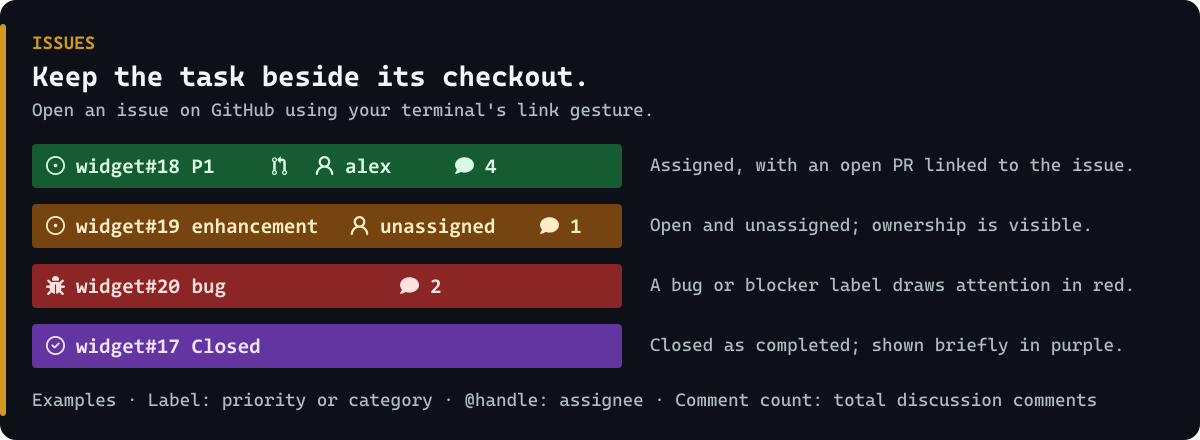
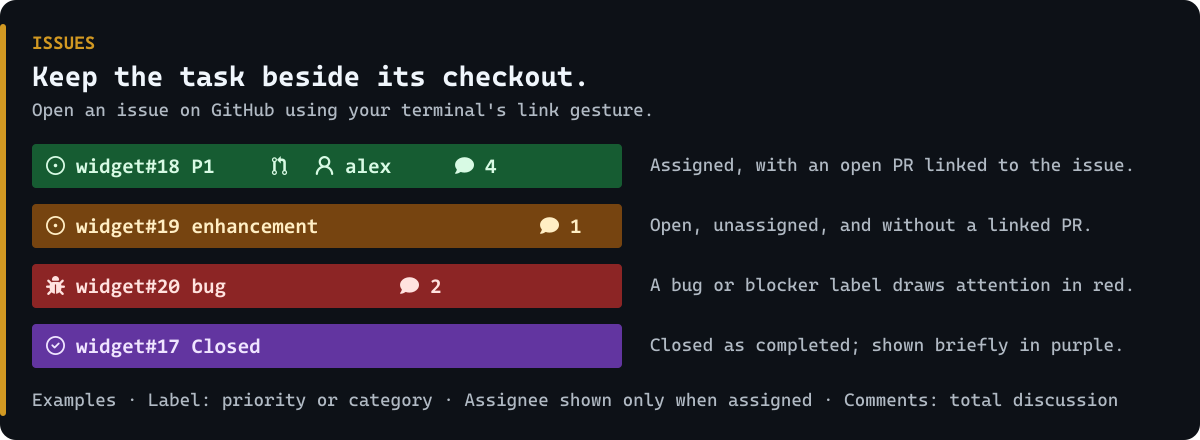
docs(statusline): align diagram headings and fix issue examples
Copilot-Session: d824aab5-ce3d-4520-9e3a-75adf42d953e

Changed region(s): [[0.37, 0.8864, 0.925, 0.9455], [0.5858, 0.4727, 0.925, 0.5318], [0.2775, 0.5023, 0.4317, 0.5318]]

diff --git a/site/README.md b/site/README.md
@@ -75,8 +75,8 @@ The social card is authored as `og.svg` and published as `og.png`.
 
 `public/screenshots/statusline-worktree-grouped.svg` is a labeled illustration,
 not a live session screenshot. Both statusline showcases and the repository
-READMEs reuse it. It shows blue external-checkout pills first, related PRs and
-issues beside each checkout, and one overall subagent summary. Three smaller
+READMEs reuse it. It shows blue external-checkout pills beside green passing PRs,
+with an amber unassigned issue and purple all-merged subagent summary below. Three smaller
 SVG guides explain PR, issue, and subagent status; cropped PNGs show individual
 terminal symbols.
 The legacy PNG diagram URLs and extension screenshot copies are generated from
@@ -85,5 +85,6 @@ The illustration also distinguishes upstream ahead/behind counts from missing
 base commits, labels unavailable comparisons with `?`, and states that counts
 use locally fetched refs rather than background network refreshes.
 Feature accents are consistent throughout the site: blue for Branch and Worktree,
-green for PRs, amber for Issues, and purple for Subagents. Diagram labels and
-explanatory outlines identify features; the pill backgrounds still indicate status.
+green for PRs, amber for Issues, and purple for Subagents. Each diagram heading
+sits directly above its matching-color pill group. The examples use real states
+that produce those colors; other live states are explained in the detail guides.
